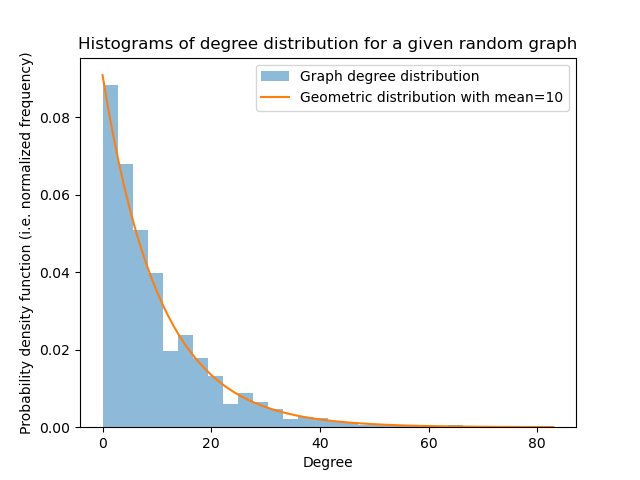
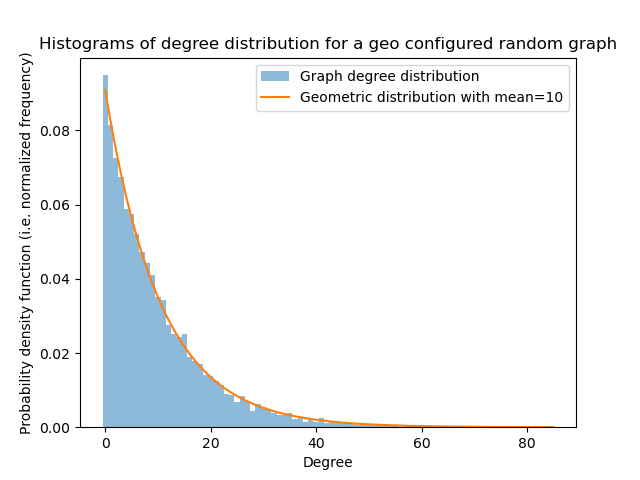
Correction for bins and non-zero friend deg samplings

diff --git a/wk2_2_friend_paradox.py b/wk2_2_friend_paradox.py
@@ -1,43 +1,47 @@
 import numpy as np
 import matplotlib.pyplot as plt
-from scipy.special import factorial
 from wk2_1_config_model import *
-
 
 from network_def import Network
 
-def friend_deg_dist(graph, num_trials=10000):
-    """sample the degree distribution of friends of a random node"""
+def friend_deg_dist(graph, num_trials=10000, diff=False):
+    """sample the degree distribution of friends of a random node
+    if diff=True, return the difference between the degree of the friend and the degree of random node, delta"""
     n = graph.n
     friend_degs = np.zeros(num_trials)
     for idx in range(num_trials):
-        # Randomly select a node i
-        i = np.random.randint(n)
-        friends_i = graph.neighbors(i)
-
-        # If node i has no friends, skip to next iteration
-        if not friends_i:
-            continue
-        else:
-            # Randomly select a friend j of the node i and compute degree of j
-            j = np.random.choice(list(friends_i))
-            friend_degs[idx] = graph.deg(j)
+        # Randomly select a node i with at least one friend
+        friends_i = None
+        while not friends_i:
+            i = np.random.randint(n)
+            friends_i = graph.neighbors(i)      
+        
+        # Randomly select a friend j of the node i and compute degree of j
+        j = np.random.choice(list(friends_i))
+        friend_degs[idx] = graph.deg(j)
+        
+        if diff:
+            """Compute delta(i) = deg(j) - deg(i) for random friend j of random node i"""
+            friend_degs[idx] -= graph.deg(i)
+    if 0 in friend_degs:
+        print("Zero degree found in friend degree distribution")
     return friend_degs
 
-def i_j_deg_hist(graph, num_trials=10000):
-    """Plotting of histograms of degree distribution of random node i and its friends j"""
+def i_j_deg_hist(graph):
+    """Plotting histograms of degree distribution of random node i and its friends j"""
     degs = graph.deg_dist()
     friend_degs = friend_deg_dist(graph)
 
     # Plot histograms of degree distributions for i and j
-    plt.hist(degs, bins=30, density=True, alpha=0.5, color = "blue", label="Deg dist of random node i")
-    plt.hist(friend_degs, bins=30, density=True, alpha=0.5, color = "orange", label="Deg dist of friends j of random node i")
+    plt.figure()
+    plt.hist(degs, bins=np.arange(np.max(degs))-0.5, density=True, alpha=0.5, label="deg of node")
+    plt.hist(friend_degs, bins=np.arange(np.max(friend_degs))-0.5, density=True, alpha=0.5, label="deg of friend")
     
     # Plot mean values of degree distributions for i and j
     mean_i = np.mean(degs)
     mean_j = np.mean(friend_degs)
-    plt.axvline(mean_i, color='blue', linestyle='dashed', linewidth=2, label=f'node deg dist mean: {mean_i:.2f}')
-    plt.axvline(mean_j, color='orange', linestyle='dashed', linewidth=2, label=f'friend deg dist mean: {mean_j:.2f}')
+    plt.axvline(mean_i, color='blue', linestyle='dashed', linewidth=2, label=f'node deg mean: {mean_i:.2f}')
+    plt.axvline(mean_j, color='orange', linestyle='dashed', linewidth=2, label=f'friend deg mean: {mean_j:.2f}')
 
     plt.xlabel('Degree')
     plt.ylabel('Probability density function (i.e. normalized frequency)')
@@ -45,23 +49,69 @@ def i_j_deg_hist(graph, num_trials=10000):
     plt.legend()
     plt.show()
 
+# wk2_3
+def delta_hist(graph):
+    """Plotting histograms of difference between degree of random node i and its friends j"""
+    plt.figure()
+    delta_dist = friend_deg_dist(graph, diff=True)
+    bins = np.arange(np.min(delta_dist), np.max(delta_dist))-0.5
+    plt.hist(delta_dist, bins=bins, density=True, alpha=0.5, label="delta distribution")
+    plt.axvline(np.mean(delta_dist), color='blue', linestyle='dashed', linewidth=2, label=f'delta mean: {np.mean(delta_dist):.2f}')
+    plt.legend()
+    plt.show()
 
+# wk2_4
+def friend_deg_hist_plt(graph, dist, mean):
+    """Plotting of histograms of friend degree distribution of given graph
+    verify that the degree distribution q_k of friends of a random node  is equal to kp_k / <k> for poisson and geo degree distribution p_k"""
+    friend_degs = friend_deg_dist(graph)
+    k_ary = np.arange(0, max(friend_degs)+1)
+
+    if dist == 'poisson':
+        lam = float(mean)
+        p_k = np.exp(-lam) * np.power(lam, k_ary) / factorial(k_ary)
+    elif dist == 'geo':
+        p = 1/(1+mean)
+        p_k = p*np.power(1-p, k_ary)
+
+    q_k = k_ary * p_k # element-wise multiplication
+    q_k /= np.sum(q_k) # normalize to make q_k a valid probability distribution
+
+    plt.hist(friend_degs, bins=np.arange(np.max(friend_degs))-0.5, density=True, alpha=0.5, label="histogram of friend degree distribution")
+    plt.plot(k_ary, q_k, label="expected friend degree distribution q_k")
+
+    plt.xlabel('Friend degree')
+    plt.ylabel('Probability density function (i.e. normalized frequency)')
+    plt.title(f"Histograms of friend degree distribution for a {dist} configured random graph")
+    plt.legend()
+    plt.show()
 
 if __name__ == "__main__":
     n = 10000
     mean = 10
+
+    dist = input("Enter 'poisson' or 'geo' for degree distribution: ")
+    if dist == 'poisson':
+            k_ary = deg_dist_poisson(n, mean)
+    elif dist == 'geo':
+        k_ary = deg_dist_geo(n, mean)
+    else:
+        raise ValueError("Invalid input for degree distribution.")
+    
+    # generate degree distributions for both random node i and its friends j
+    graph = config_graph_gen(n, k_ary)
+
     while True:
-        dist = input("Enter 'poisson' or 'geo' for degree distribution ('exit'): ")
-        if dist == 'poisson':
-                k_ary = deg_dist_poisson(n, mean)
-        elif dist == 'geo':
-            k_ary = deg_dist_geo(n, mean)
-        elif dist == 'exit':
-            break
-        else:
-            raise ValueError("Invalid input for degree distribution.")
+        plot = input("Plot (1)i vs j deg dist; (2)delta; (3)j deg dist & q_k; (q)quit:")
+        if plot == '1':
+            i_j_deg_hist(graph)
+
+        elif plot == '2':
+            delta_hist(graph)
+
+        elif plot == '3':
+            friend_deg_hist_plt(graph, dist, mean)
         
-        # generate degree distributions for both random node i and its friends j
-        graph = config_graph_gen(n, k_ary)
-        i_j_deg_hist(graph)
+        elif plot == 'q':
+            break
         

diff --git a/wk2_1_config_model.py b/wk2_1_config_model.py
@@ -44,7 +44,7 @@ def deg_dist_geo(n,mean):
 def deg_hist_plt(graph, dist, mean):
     """Plotting of histograms of degree distribution of given graph"""
     degs = graph.deg_dist()
-    plt.hist(degs, bins=30, density=True, alpha=0.5, label="Graph degree distribution")
+    plt.hist(degs, bins=np.arange(np.max(degs))-0.5, density=True, alpha=0.5, label="Graph degree distribution")
 
     # Compute original distribution for comparison
     x = np.arange(0, max(degs)+1)

diff --git a/wk2_4_qk.py b/wk2_4_qk.py
@@ -1,0 +1,5 @@
+import numpy as np
+import matplotlib.pyplot as plt
+from wk2_1_config_model import *
+
+from network_def import Network
